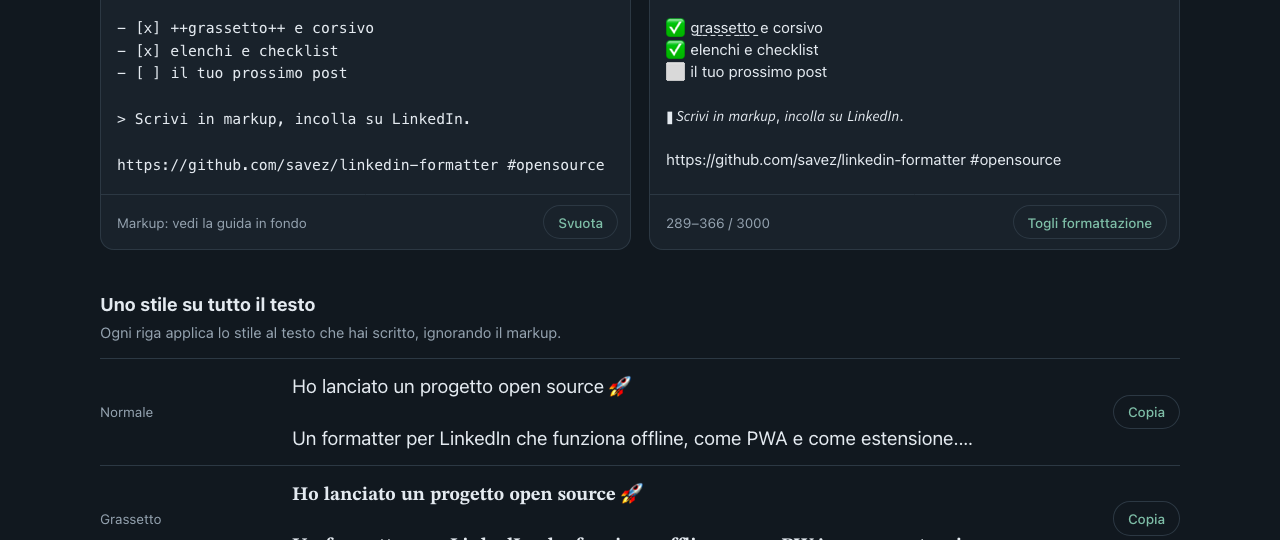
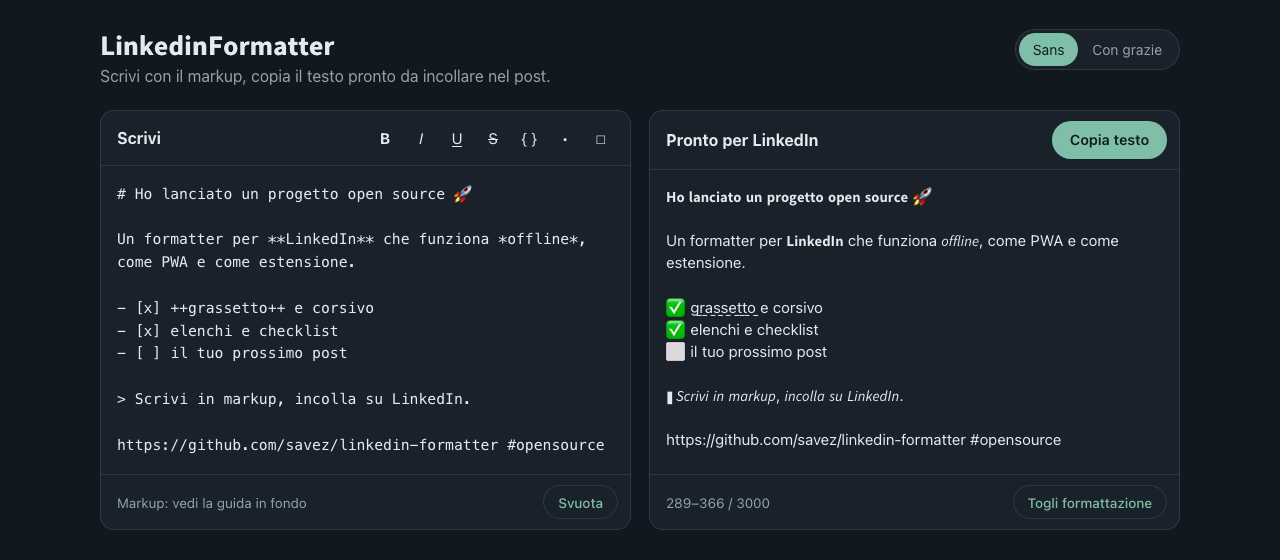
feat: rinomina l'app in LinkedinFormatter

diff --git a/src/index.html b/src/index.html
@@ -3,14 +3,14 @@
 <head>
 <meta charset="utf-8">
 <meta name="viewport" content="width=device-width, initial-scale=1, viewport-fit=cover">
-<title>Testo per LinkedIn</title>
+<title>LinkedinFormatter</title>
 <meta name="description" content="Formatta il testo dei post LinkedIn con grassetto, corsivo, sottolineato ed elenchi.">
 <meta name="theme-color" content="#2F5D50">
 <link rel="manifest" href="manifest.webmanifest">
 <link rel="icon" href="icons/icon-192.png" type="image/png">
 <link rel="apple-touch-icon" href="icons/apple-touch-icon.png">
 <meta name="apple-mobile-web-app-capable" content="yes">
-<meta name="apple-mobile-web-app-title" content="Testo LinkedIn">
+<meta name="apple-mobile-web-app-title" content="LinkedinFormatter">
 <style>
   :root {
     --paper: #E8ECEF;
@@ -120,7 +120,7 @@
 <div class="wrap">
   <header>
     <div>
-      <h1>𝗧𝗲𝘀𝘁𝗼 𝗽𝗲𝗿 𝗟𝗶𝗻𝗸𝗲𝗱𝗜𝗻</h1>
+      <h1>𝗟𝗶𝗻𝗸𝗲𝗱𝗶𝗻𝗙𝗼𝗿𝗺𝗮𝘁𝘁𝗲𝗿</h1>
       <p>Scrivi con il markup, copia il testo pronto da incollare nel post.</p>
     </div>
     <div class="seg" role="group" aria-label="Famiglia per grassetto e corsivo">

diff --git a/README.md b/README.md
@@ -2,7 +2,7 @@
 
 <img src="src/icons/icon-192.png" width="96" height="96" alt="">
 
-# 𝗧𝗲𝘀𝘁𝗼 𝗽𝗲𝗿 𝗟𝗶𝗻𝗸𝗲𝗱𝗜𝗻
+# 𝗟𝗶𝗻𝗸𝗲𝗱𝗶𝗻𝗙𝗼𝗿𝗺𝗮𝘁𝘁𝗲𝗿
 
 **Grassetto, corsivo, sottolineato ed elenchi nei post LinkedIn.**
 Scrivi in markup, copia, incolla. Funziona offline, non invia niente a nessuno.
@@ -48,7 +48,7 @@ a ogni rilascio, quindi si comportano in modo identico.
 - **Le lettere accentate funzionano**: à è é ì ò ù diventano grassetto come le altre.
 - **Togli formattazione**: incolli un vecchio post e torna testo semplice da modificare.
 - **Scorciatoie**: <kbd>Ctrl</kbd>/<kbd>⌘</kbd> + <kbd>B</kbd> <kbd>I</kbd> <kbd>U</kbd> sulla selezione.
-- **Condividi verso l'app** (Android): da qualsiasi app, *Condividi → Testo LinkedIn*.
+- **Condividi verso l'app** (Android): da qualsiasi app, *Condividi → LinkedinFormatter*.
 - **Privacy totale**: nessun server, nessun tracciamento, nessuna dipendenza esterna.
   La bozza resta nel tuo browser.
 

diff --git a/docs/INSTALLAZIONE.md b/docs/INSTALLAZIONE.md
@@ -29,7 +29,7 @@ LinkedIn* del clic destro. Non legge le pagine che visiti e non fa richieste di 
 4. Attiva **Modalità sviluppatore** (interruttore in alto a destra; in Edge è nella barra a sinistra).
 5. Clicca **Carica estensione non pacchettizzata** e seleziona la cartella estratta
    (quella che contiene `manifest.json`).
-6. Clicca l'icona del puzzle 🧩 nella barra e fissa *Testo per LinkedIn* con la puntina.
+6. Clicca l'icona del puzzle 🧩 nella barra e fissa *LinkedinFormatter* con la puntina.
 
 > [!NOTE]
 > All'avvio Chrome può mostrare l'avviso *"Disattiva le estensioni in modalità
